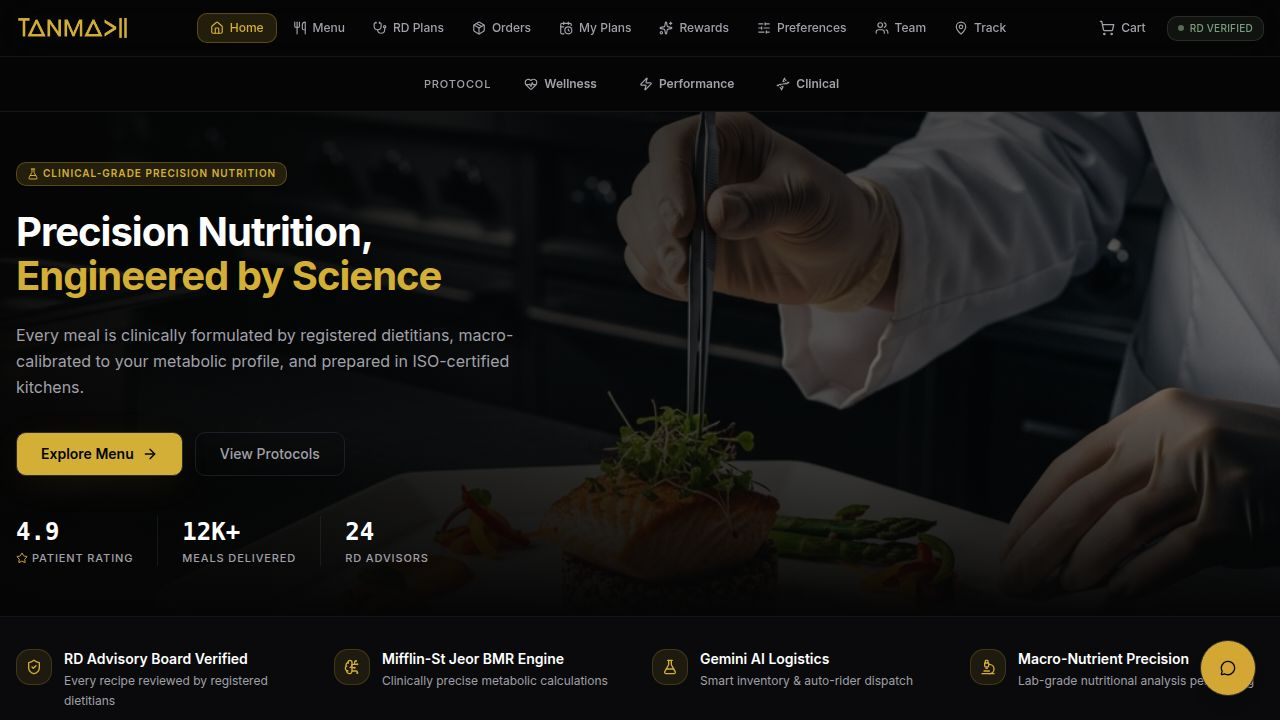
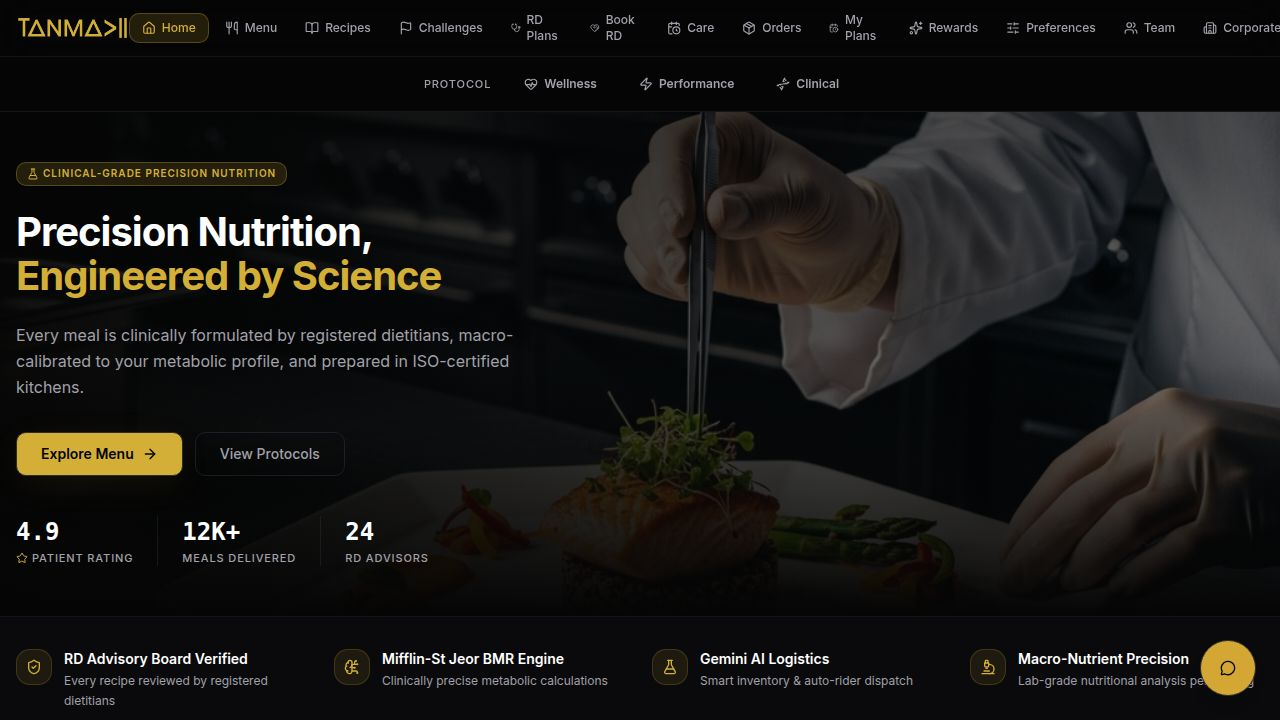
Allow using a custom Google Gemini API key for all AI features
Update AI integration clients to prioritize the GEMINI_API_KEY environment variable, falling back to the existing AI_INTEGRATIONS_GEMINI_API_KEY if the custom key is not provided.

Replit-Commit-Author: Agent
Replit-Commit-Session-Id: 691f11f3-549d-45da-af7c-3e58ca1edd0b
Replit-Commit-Checkpoint-Type: full_checkpoint
Replit-Commit-Event-Id: cba5bae7-f8c2-40cc-b0f2-e1942d2a0828
Replit-Commit-Screenshot-Url: https://storage.googleapis.com/screenshot-production-us-central1/bd919692-77e6-40af-8a88-d4b2e61c334c/691f11f3-549d-45da-af7c-3e58ca1edd0b/ZBejVwc
Replit-Helium-Checkpoint-Created: true

Changed region(s): [[0.0938, 0.0, 1.0, 0.0611]]

diff --git a/lib/integrations-gemini-ai/src/client.ts b/lib/integrations-gemini-ai/src/client.ts
@@ -1,21 +1,24 @@
 import { GoogleGenAI } from "@google/genai";
 
-if (!process.env.AI_INTEGRATIONS_GEMINI_BASE_URL) {
-  throw new Error(
-    "AI_INTEGRATIONS_GEMINI_BASE_URL must be set. Did you forget to provision the Gemini AI integration?",
-  );
-}
+const userKey = process.env.GEMINI_API_KEY;
+const proxyKey = process.env.AI_INTEGRATIONS_GEMINI_API_KEY;
+const proxyBaseUrl = process.env.AI_INTEGRATIONS_GEMINI_BASE_URL;
 
-if (!process.env.AI_INTEGRATIONS_GEMINI_API_KEY) {
+const apiKey = userKey || proxyKey;
+if (!apiKey) {
   throw new Error(
-    "AI_INTEGRATIONS_GEMINI_API_KEY must be set. Did you forget to provision the Gemini AI integration?",
+    "GEMINI_API_KEY (preferred) or AI_INTEGRATIONS_GEMINI_API_KEY must be set.",
   );
 }
 
 export const ai = new GoogleGenAI({
-  apiKey: process.env.AI_INTEGRATIONS_GEMINI_API_KEY,
-  httpOptions: {
-    apiVersion: "",
-    baseUrl: process.env.AI_INTEGRATIONS_GEMINI_BASE_URL,
-  },
+  apiKey,
+  ...(userKey
+    ? {}
+    : {
+        httpOptions: {
+          apiVersion: "",
+          baseUrl: proxyBaseUrl,
+        },
+      }),
 });

diff --git a/lib/integrations-gemini-ai/src/image/client.ts b/lib/integrations-gemini-ai/src/image/client.ts
@@ -1,23 +1,26 @@
 import { GoogleGenAI, Modality } from "@google/genai";
 
-if (!process.env.AI_INTEGRATIONS_GEMINI_BASE_URL) {
-  throw new Error(
-    "AI_INTEGRATIONS_GEMINI_BASE_URL must be set. Did you forget to provision the Gemini AI integration?",
-  );
-}
+const userKey = process.env.GEMINI_API_KEY;
+const proxyKey = process.env.AI_INTEGRATIONS_GEMINI_API_KEY;
+const proxyBaseUrl = process.env.AI_INTEGRATIONS_GEMINI_BASE_URL;
 
-if (!process.env.AI_INTEGRATIONS_GEMINI_API_KEY) {
+const apiKey = userKey || proxyKey;
+if (!apiKey) {
   throw new Error(
-    "AI_INTEGRATIONS_GEMINI_API_KEY must be set. Did you forget to provision the Gemini AI integration?",
+    "GEMINI_API_KEY (preferred) or AI_INTEGRATIONS_GEMINI_API_KEY must be set.",
   );
 }
 
 export const ai = new GoogleGenAI({
-  apiKey: process.env.AI_INTEGRATIONS_GEMINI_API_KEY,
-  httpOptions: {
-    apiVersion: "",
-    baseUrl: process.env.AI_INTEGRATIONS_GEMINI_BASE_URL,
-  },
+  apiKey,
+  ...(userKey
+    ? {}
+    : {
+        httpOptions: {
+          apiVersion: "",
+          baseUrl: proxyBaseUrl,
+        },
+      }),
 });
 
 export async function generateImage(

diff --git a/artifacts/api-server/src/lib/ai/model.ts b/artifacts/api-server/src/lib/ai/model.ts
@@ -1,15 +1,19 @@
 import { createGoogleGenerativeAI } from "@ai-sdk/google";
 
-const apiKey = process.env["AI_INTEGRATIONS_GEMINI_API_KEY"];
-const baseURL = process.env["AI_INTEGRATIONS_GEMINI_BASE_URL"];
+const userKey = process.env["GEMINI_API_KEY"];
+const proxyKey = process.env["AI_INTEGRATIONS_GEMINI_API_KEY"];
+const proxyBaseURL = process.env["AI_INTEGRATIONS_GEMINI_BASE_URL"];
 
-if (!apiKey || !baseURL) {
+const apiKey = userKey || proxyKey;
+if (!apiKey) {
   throw new Error(
-    "AI_INTEGRATIONS_GEMINI_API_KEY and AI_INTEGRATIONS_GEMINI_BASE_URL must be set",
+    "GEMINI_API_KEY (preferred) or AI_INTEGRATIONS_GEMINI_API_KEY must be set",
   );
 }
 
-const provider = createGoogleGenerativeAI({ apiKey, baseURL });
+const provider = userKey
+  ? createGoogleGenerativeAI({ apiKey })
+  : createGoogleGenerativeAI({ apiKey, baseURL: proxyBaseURL });
 
 export const DEFAULT_MODEL_ID = "gemini-2.5-flash";
 

diff --git a/artifacts/api-server/src/lib/anomalyExplainer.ts b/artifacts/api-server/src/lib/anomalyExplainer.ts
@@ -31,7 +31,7 @@ export async function explainAnomalyWithAI(
   args: ExplainArgs,
 ): Promise<Explanation | null> {
   if (process.env["ANOMALY_AI_EXPLAINER_DISABLED"] === "1") return null;
-  if (!process.env["AI_INTEGRATIONS_GEMINI_API_KEY"]) return null;
+  if (!process.env["GEMINI_API_KEY"] && !process.env["AI_INTEGRATIONS_GEMINI_API_KEY"]) return null;
   const ctrl = new AbortController();
   const timer = setTimeout(() => ctrl.abort(), TIMEOUT_MS);
   try {

diff --git a/artifacts/api-server/src/lib/menuCopy.ts b/artifacts/api-server/src/lib/menuCopy.ts
@@ -331,7 +331,7 @@ export async function generateCopyForItem(
   item: MenuItem,
   fields: CopyField[] = ALL_COPY_FIELDS,
 ): Promise<CopyDraft> {
-  if (!process.env["AI_INTEGRATIONS_GEMINI_API_KEY"]) {
+  if (!process.env["GEMINI_API_KEY"] && !process.env["AI_INTEGRATIONS_GEMINI_API_KEY"]) {
     throw new Error("Gemini integration not configured");
   }
   const ctrl = new AbortController();